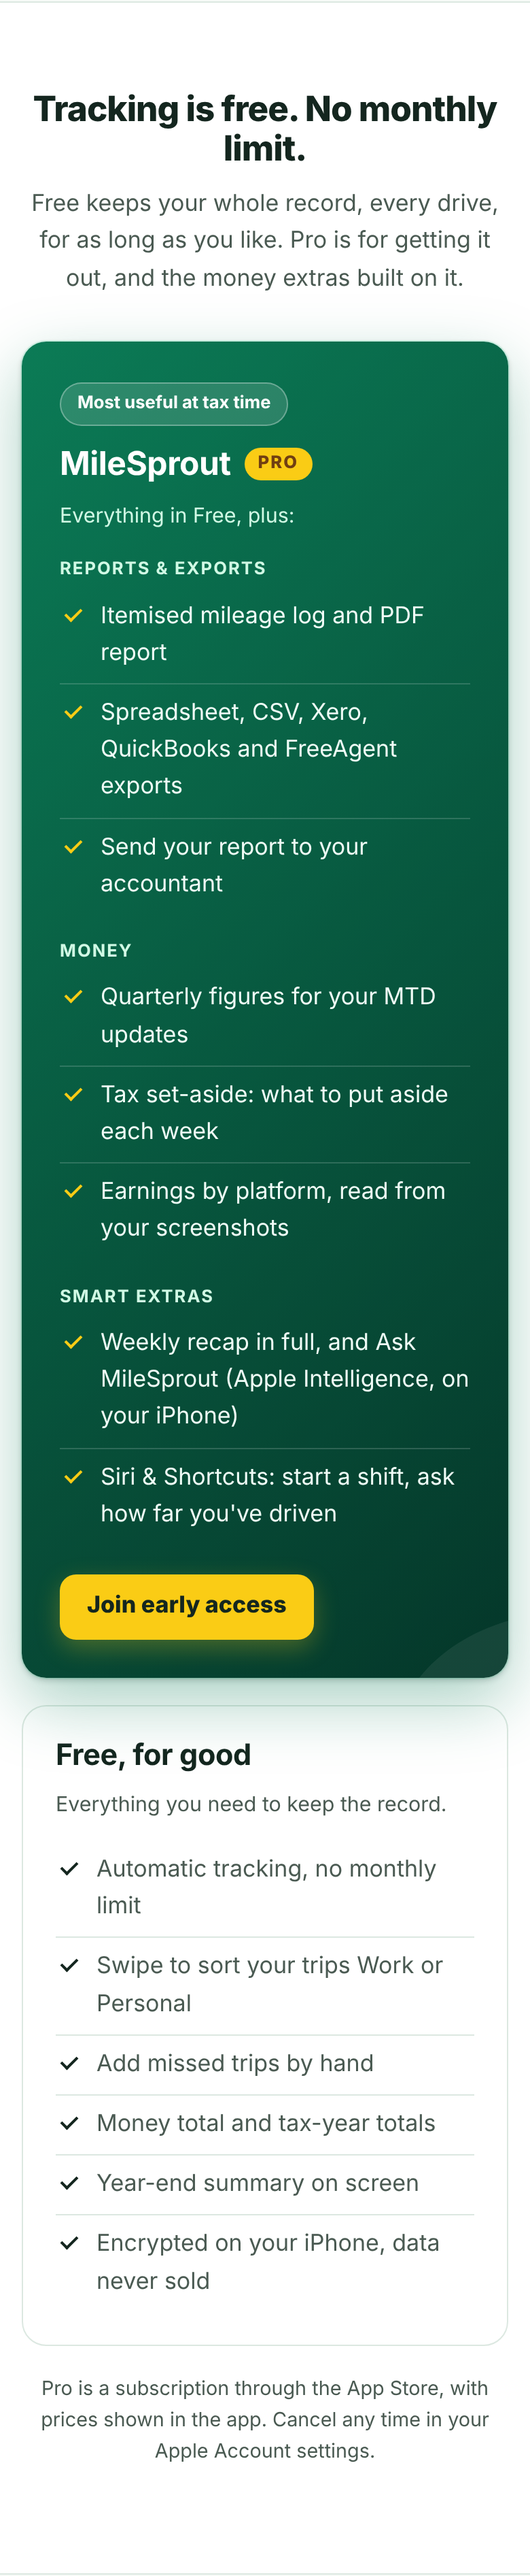
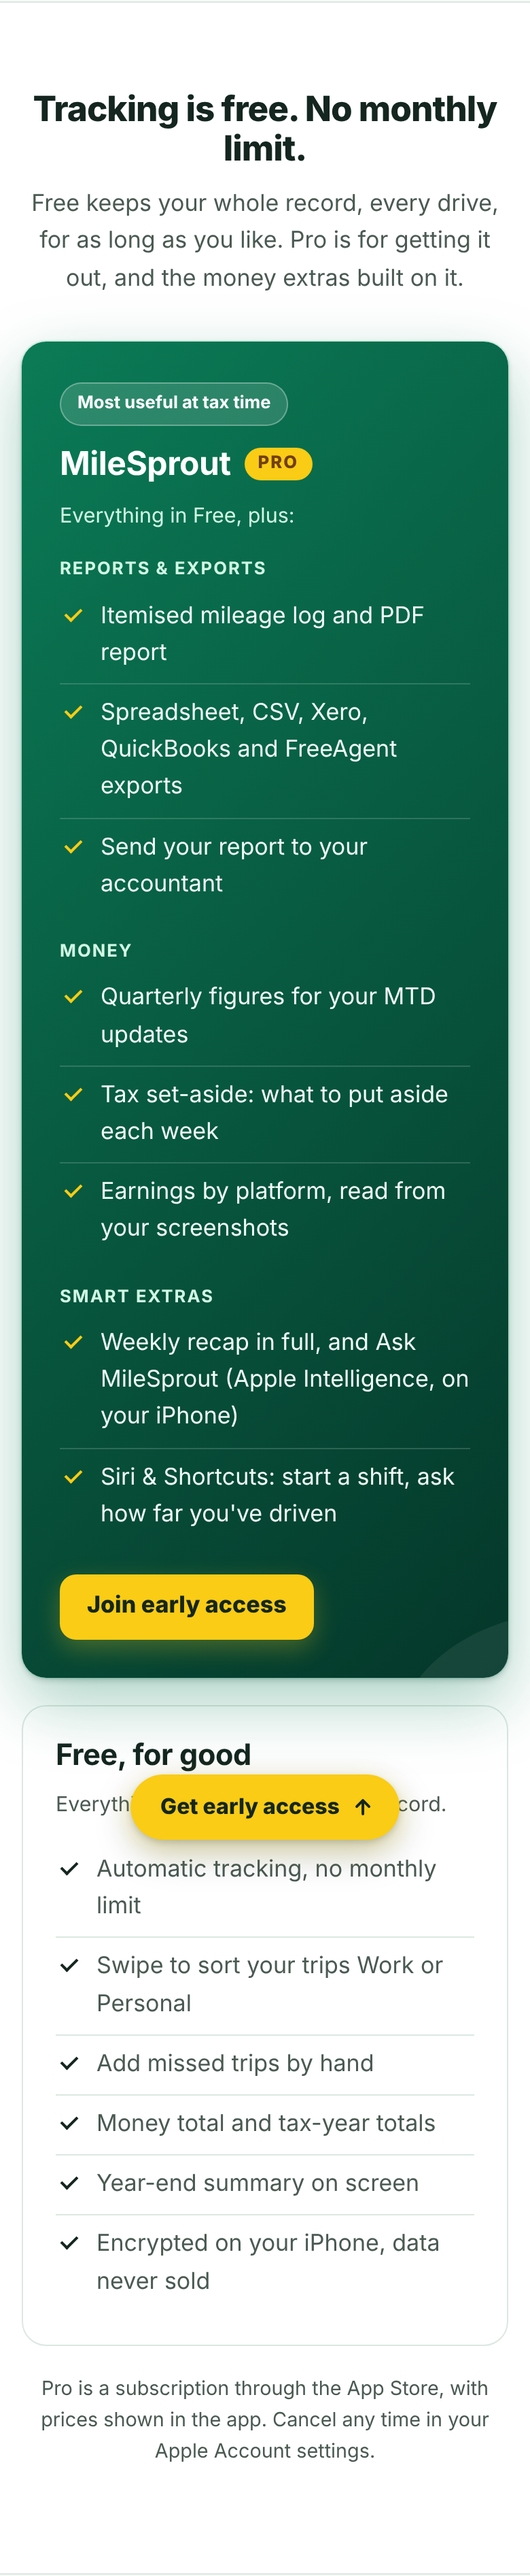
Website: one sign-up form on the home page, plus a floating Get early access pill
The closing section no longer repeats the form: it links up to the hero form and keeps the founding tester link. A gold pill (made by site.js, home page only) appears once the hero form is off screen and hides near the footer; it scrolls to the form and focuses the email box. Hidden state is aria-hidden and inert; no bounce with reduced motion. Asset versions bumped; screenshots in website/docs/float-*.png.

Claude-Session: https://claude.ai/code/session_01HV35bfD7NzTSNvA32BVxeb

Changed region(s): [[0.2154, 0.6857, 0.7692, 0.748]]

diff --git a/website/index.html b/website/index.html
@@ -18,9 +18,9 @@
 <link rel="icon" href="/favicon-32.png" sizes="32x32" type="image/png">
 <link rel="apple-touch-icon" href="/apple-touch-icon.png">
 <link rel="preload" href="/assets/img/screens/home.webp" as="image" type="image/webp">
-<link rel="stylesheet" href="/assets/site.css?v=171bc4d5">
+<link rel="stylesheet" href="/assets/site.css?v=98f1d220">
 <script src="/assets/intro-gate.js?v=4b6a6a89"></script>
-<script src="/assets/site.js?v=b5a106e0" defer></script>
+<script src="/assets/site.js?v=50f97b0a" defer></script>
 <noscript><style>
   /* Without JavaScript: every feature is listed, the deck is a still picture. */
   .feat { opacity: 1 !important; visibility: visible !important; transform: none !important; grid-area: auto !important; }
@@ -408,47 +408,8 @@
   <section class="cta" aria-labelledby="cta-title">
     <div class="wrap">
       <h2 id="cta-title">Be on the road with it from day one</h2>
-      <p>Leave your email and we'll tell you the moment MileSprout is in the App Store. No spam, and we never share it.</p>
-      <form class="waitlist" action="/api/waitlist" method="post" data-waitlist>
-        <input type="hidden" name="source" value="home-bottom">
-        <div class="wl-fields">
-          <label class="wl-label" for="wl-email-b">Your email</label>
-          <div class="wl-row">
-            <input id="wl-email-b" name="email" type="email" required maxlength="254" autocomplete="email" inputmode="email" placeholder="you@example.com" aria-describedby="wl-status-b">
-            <span class="wl-go">
-              <button type="submit">Get early access</button>
-              <span class="sparkles" aria-hidden="true"><i></i><i></i><i></i><i></i></span>
-            </span>
-          </div>
-          <div class="wl-opts">
-            <fieldset class="chips" data-chips>
-              <legend>What do you drive for? <small>(optional)</small></legend>
-              <div class="chip-row">
-                <label class="chip"><input type="radio" name="segment" value="food"><span>Food delivery</span></label>
-                <label class="chip"><input type="radio" name="segment" value="parcels"><span>Parcels</span></label>
-                <label class="chip"><input type="radio" name="segment" value="ridehail"><span>Ride-hail</span></label>
-                <label class="chip"><input type="radio" name="segment" value="care"><span>Care or home visits</span></label>
-                <label class="chip"><input type="radio" name="segment" value="trades"><span>Trades</span></label>
-                <label class="chip"><input type="radio" name="segment" value="other"><span>Other</span></label>
-              </div>
-            </fieldset>
-            <fieldset class="chips" data-chips>
-              <legend>Country <small>(optional)</small></legend>
-              <div class="chip-row">
-                <label class="chip"><input type="radio" name="country" value="UK"><span><svg class="flag" viewBox="0 0 40 28" aria-hidden="true" focusable="false"><rect width="40" height="28" fill="#012169"/><path d="M0 0L40 28M40 0L0 28" stroke="#FFF" stroke-width="5"/><path d="M0 0L40 28M40 0L0 28" stroke="#C8102E" stroke-width="1.8"/><path d="M20 0V28M0 14H40" stroke="#FFF" stroke-width="8"/><path d="M20 0V28M0 14H40" stroke="#C8102E" stroke-width="4.6"/></svg>UK</span></label>
-                <label class="chip"><input type="radio" name="country" value="US"><span><svg class="flag" viewBox="0 0 40 28" aria-hidden="true" focusable="false"><rect width="40" height="28" fill="#FFF"/><path fill="#B22234" d="M0 0.000h40v2.154H0zM0 4.308h40v2.154H0zM0 8.615h40v2.154H0zM0 12.923h40v2.154H0zM0 17.231h40v2.154H0zM0 21.538h40v2.154H0zM0 25.846h40v2.154H0z"/><rect width="17" height="15.077" fill="#3C3B6E"/><g fill="#FFF"><circle cx="1.60" cy="1.60" r=".62"/><circle cx="4.35" cy="1.60" r=".62"/><circle cx="7.10" cy="1.60" r=".62"/><circle cx="9.85" cy="1.60" r=".62"/><circle cx="12.60" cy="1.60" r=".62"/><circle cx="15.35" cy="1.60" r=".62"/><circle cx="2.98" cy="4.35" r=".62"/><circle cx="5.72" cy="4.35" r=".62"/><circle cx="8.47" cy="4.35" r=".62"/><circle cx="11.22" cy="4.35" r=".62"/><circle cx="13.97" cy="4.35" r=".62"/><circle cx="1.60" cy="7.10" r=".62"/><circle cx="4.35" cy="7.10" r=".62"/><circle cx="7.10" cy="7.10" r=".62"/><circle cx="9.85" cy="7.10" r=".62"/><circle cx="12.60" cy="7.10" r=".62"/><circle cx="15.35" cy="7.10" r=".62"/><circle cx="2.98" cy="9.85" r=".62"/><circle cx="5.72" cy="9.85" r=".62"/><circle cx="8.47" cy="9.85" r=".62"/><circle cx="11.22" cy="9.85" r=".62"/><circle cx="13.97" cy="9.85" r=".62"/><circle cx="1.60" cy="12.60" r=".62"/><circle cx="4.35" cy="12.60" r=".62"/><circle cx="7.10" cy="12.60" r=".62"/><circle cx="9.85" cy="12.60" r=".62"/><circle cx="12.60" cy="12.60" r=".62"/><circle cx="15.35" cy="12.60" r=".62"/></g></svg>US</span></label>
-                <label class="chip"><input type="radio" name="country" value="CA"><span><svg class="flag" viewBox="0 0 40 28" aria-hidden="true" focusable="false"><rect width="40" height="28" fill="#FFF"/><path fill="#D52B1E" d="M0 0h10v28H0zM30 0h10v28H30z"/><polygon fill="#D52B1E" points="20,4.2 21.5,7.2 23.2,6.5 22.6,10.4 25.3,8.3 26,9.9 27.6,9.7 26.7,12.7 27.6,13.4 23.9,16.2 24.4,17.6 20.5,17.1 20.6,20.6 19.4,20.6 19.5,17.1 15.6,17.6 16.1,16.2 12.4,13.4 13.3,12.7 12.4,9.7 14,9.9 14.7,8.3 17.4,10.4 16.8,6.5 18.5,7.2"/></svg>Canada</span></label>
-                <label class="chip"><input type="radio" name="country" value="AU"><span><svg class="flag" viewBox="0 0 40 28" aria-hidden="true" focusable="false"><rect width="40" height="28" fill="#012169"/><g transform="scale(.5)"><rect width="40" height="28" fill="#012169"/><path d="M0 0L40 28M40 0L0 28" stroke="#FFF" stroke-width="5"/><path d="M0 0L40 28M40 0L0 28" stroke="#C8102E" stroke-width="1.8"/><path d="M20 0V28M0 14H40" stroke="#FFF" stroke-width="8"/><path d="M20 0V28M0 14H40" stroke="#C8102E" stroke-width="4.6"/></g><g fill="#FFF"><polygon points="10.00,17.90 10.78,19.88 12.81,19.26 11.75,21.10 13.51,22.30 11.41,22.62 11.56,24.74 10.00,23.30 8.44,24.74 8.59,22.62 6.49,22.30 8.25,21.10 7.19,19.26 9.22,19.88"/><polygon points="30.00,4.00 30.43,5.10 31.56,4.75 30.97,5.78 31.95,6.45 30.78,6.62 30.87,7.80 30.00,7.00 29.13,7.80 29.22,6.62 28.05,6.45 29.03,5.78 28.44,4.75 29.57,5.10"/><polygon points="25.00,11.00 25.43,12.10 26.56,11.75 25.97,12.78 26.95,13.45 25.78,13.62 25.87,14.80 25.00,14.00 24.13,14.80 24.22,13.62 23.05,13.45 24.03,12.78 23.44,11.75 24.57,12.10"/><polygon points="34.50,9.00 34.93,10.10 36.06,9.75 35.47,10.78 36.45,11.45 35.28,11.62 35.37,12.80 34.50,12.00 33.63,12.80 33.72,11.62 32.55,11.45 33.53,10.78 32.94,9.75 34.07,10.10"/><polygon points="30.00,20.90 30.46,22.05 31.64,21.69 31.02,22.77 32.05,23.47 30.82,23.65 30.91,24.89 30.00,24.05 29.09,24.89 29.18,23.65 27.95,23.47 28.98,22.77 28.36,21.69 29.54,22.05"/><polygon points="32.60,15.30 32.89,16.00 33.65,16.06 33.07,16.55 33.25,17.29 32.60,16.89 31.95,17.29 32.13,16.55 31.55,16.06 32.31,16.00"/></g></svg>Australia</span></label>
-                <label class="chip"><input type="radio" name="country" value="other"><span>Other</span></label>
-              </div>
-            </fieldset>
-          </div>
-          <label class="wl-consent"><input type="checkbox" name="consent" value="yes" required> <span>Email me when MileSprout launches. Unsubscribe any time. <a href="/privacy#waitlist">How we use your email</a></span></label>
-          <div class="wl-hp" aria-hidden="true"><label>Company <input type="text" name="company" tabindex="-1" autocomplete="off"></label></div>
-        </div>
-        <p class="wl-done" tabindex="-1" hidden><strong>You're on the list.</strong> We'll email you once, when MileSprout is ready.</p>
-        <p class="wl-status" id="wl-status-b" role="status" aria-live="polite"></p>
-      </form>
+      <p>Leave your email at the top of the page and we'll tell you the moment MileSprout is in the App Store. No spam, and we never share it.</p>
+      <p class="cta-actions"><a class="btn-gold" href="#early-access">Get early access</a></p>
       <p class="tester-link"><a href="/testers">Want to test it early? Become a founding tester →</a></p>
     </div>
   </section>

diff --git a/website/assets/site.js b/website/assets/site.js
@@ -124,6 +124,52 @@
     }
   })();
 
+  /* ---------- Home: links to the sign-up (and a floating "Get early access" pill) ----------
+     Every link to #early-access scrolls to the hero form and puts the cursor in the email box.
+     The pill is made here (no JS, no pill) and shows only while the hero form is off screen
+     and the footer isn't in view. */
+  (function joinLinks() {
+    var form = document.querySelector('.hero form[data-waitlist]');
+    var heading = document.getElementById('early-access');
+    if (!form || !heading) return;
+    var email = form.querySelector('input[type="email"]');
+
+    function go(e) {
+      if (e) e.preventDefault();
+      heading.scrollIntoView({ behavior: still() ? 'auto' : 'smooth', block: 'start' });
+      if (email && !form.classList.contains('is-done')) {
+        try { email.focus({ preventScroll: true }); } catch (err) { email.focus(); }
+      }
+    }
+    Array.prototype.forEach.call(document.querySelectorAll('a[href="#early-access"]'), function (a) {
+      a.addEventListener('click', go);
+    });
+
+    if (!('IntersectionObserver' in window)) return;
+    var pill = document.createElement('a');
+    pill.className = 'float-join';
+    pill.href = '#early-access';
+    pill.innerHTML = '<span>Get early access</span><svg viewBox="0 0 20 20" aria-hidden="true" focusable="false"><path d="M10 15.5V5M5 9.5l5-5 5 5" fill="none" stroke="currentColor" stroke-width="2.2" stroke-linecap="round" stroke-linejoin="round"/></svg>';
+    pill.addEventListener('click', go);
+    document.body.appendChild(pill);
+
+    var formSeen = true, footSeen = false, shown = null;
+    function update() {
+      var on = !formSeen && !footSeen;
+      if (on === shown) return;
+      shown = on;
+      pill.classList.toggle('on', on);
+      document.body.classList.toggle('has-float', on);
+      // hidden: out of the tab order and the accessibility tree
+      if (on) { pill.removeAttribute('aria-hidden'); pill.removeAttribute('tabindex'); pill.inert = false; }
+      else { pill.setAttribute('aria-hidden', 'true'); pill.setAttribute('tabindex', '-1'); pill.inert = true; }
+    }
+    new IntersectionObserver(function (es) { formSeen = es[0].isIntersecting; update(); }).observe(form);
+    var foot = document.querySelector('.site-footer');
+    if (foot) new IntersectionObserver(function (es) { footSeen = es[0].isIntersecting; update(); }).observe(foot);
+    update();
+  })();
+
   /* ---------- Hero: the phone turns to face you as you scroll; the sprout drifts ---------- */
   (function hero() {
     var section = document.querySelector('.hero');

diff --git a/website/assets/site.css b/website/assets/site.css
@@ -530,6 +530,34 @@ html.ms-intro::after {
 .hero-sprout { display: block; width: 52px; height: auto; margin: 0 0 14px; filter: drop-shadow(0 4px 10px rgba(3, 28, 20, .35)); }
 @media (min-width: 900px) { .hero-sprout { width: 64px; } }
 
+/* Closing call to action (the form itself is in the hero) */
+.cta-actions { margin: 18px 0 0; }
+
+/* ---------- Floating "Get early access" pill (home page, made by site.js) ---------- */
+.float-join {
+  position: fixed; z-index: 50; right: 24px; bottom: calc(24px + env(safe-area-inset-bottom, 0px));
+  display: inline-flex; align-items: center; gap: 8px; min-height: 48px; padding: 0 18px 0 22px; white-space: nowrap; width: max-content;
+  background: var(--gold); color: #14261F; font-weight: 800; font-size: 1rem; text-decoration: none; border-radius: 999px;
+  box-shadow: 0 2px 4px rgba(20, 38, 31, .14), 0 10px 28px rgba(20, 38, 31, .22), 0 6px 18px rgba(250, 204, 21, .3);
+  opacity: 0; visibility: hidden; transform: translateY(16px);
+  transition: opacity .25s ease, transform .25s ease, visibility 0s linear .25s;
+}
+.float-join.on { opacity: 1; visibility: visible; transform: none; transition: opacity .25s ease, transform .25s ease, visibility 0s; }
+.float-join:hover { background: #FDE047; }
+.float-join:focus-visible { outline: 3px solid #14261F; outline-offset: 3px; box-shadow: 0 0 0 6px var(--gold); }
+.float-join svg { width: 18px; height: 18px; flex: none; animation: nudge-up 4s ease-in-out 1s infinite; }
+@keyframes nudge-up { 0%, 80%, 100% { transform: none; } 86% { transform: translateY(-4px); } 92% { transform: translateY(0); } 96% { transform: translateY(-2px); } }
+@media (max-width: 719px) {
+  .float-join { right: auto; left: 50%; bottom: calc(16px + env(safe-area-inset-bottom, 0px)); transform: translate(-50%, 16px); }
+  .float-join.on { transform: translate(-50%, 0); }
+  body.has-float { padding-bottom: calc(80px + env(safe-area-inset-bottom, 0px)); }
+}
+@media (prefers-reduced-motion: reduce) {
+  .float-join, .float-join.on { transition: opacity .2s ease, visibility 0s linear .2s; }
+  .float-join.on { transition: opacity .2s ease, visibility 0s; }
+  .float-join svg { animation: none; }
+}
+
 /* ---------- Free & Pro: Pro is the star ---------- */
 .plans { align-items: center; }
 .plan-free { box-shadow: none; }

diff --git a/website/testers.html b/website/testers.html
@@ -17,8 +17,8 @@
 <link rel="icon" href="/favicon.svg" type="image/svg+xml">
 <link rel="icon" href="/favicon-32.png" sizes="32x32" type="image/png">
 <link rel="apple-touch-icon" href="/apple-touch-icon.png">
-<link rel="stylesheet" href="/assets/site.css?v=171bc4d5">
-<script src="/assets/site.js?v=b5a106e0" defer></script>
+<link rel="stylesheet" href="/assets/site.css?v=98f1d220">
+<script src="/assets/site.js?v=50f97b0a" defer></script>
 </head>
 <body>
 <a class="skip" href="#main">Skip to content</a>

diff --git a/website/waitlist.html b/website/waitlist.html
@@ -10,8 +10,8 @@
 <link rel="icon" href="/favicon.svg" type="image/svg+xml">
 <link rel="icon" href="/favicon-32.png" sizes="32x32" type="image/png">
 <link rel="apple-touch-icon" href="/apple-touch-icon.png">
-<link rel="stylesheet" href="/assets/site.css?v=171bc4d5">
-<script src="/assets/site.js?v=b5a106e0" defer></script>
+<link rel="stylesheet" href="/assets/site.css?v=98f1d220">
+<script src="/assets/site.js?v=50f97b0a" defer></script>
 </head>
 <body>
 <a class="skip" href="#main">Skip to content</a>

diff --git a/website/partners.html b/website/partners.html
@@ -10,7 +10,7 @@
 <link rel="icon" href="/favicon.svg" type="image/svg+xml">
 <link rel="icon" href="/favicon-32.png" sizes="32x32" type="image/png">
 <link rel="apple-touch-icon" href="/apple-touch-icon.png">
-<link rel="stylesheet" href="/assets/site.css?v=171bc4d5">
+<link rel="stylesheet" href="/assets/site.css?v=98f1d220">
 </head>
 <body>
 <a class="skip" href="#main">Skip to content</a>

diff --git a/website/privacy.html b/website/privacy.html
@@ -10,7 +10,7 @@
 <link rel="icon" href="/favicon.svg" type="image/svg+xml">
 <link rel="icon" href="/favicon-32.png" sizes="32x32" type="image/png">
 <link rel="apple-touch-icon" href="/apple-touch-icon.png">
-<link rel="stylesheet" href="/assets/site.css?v=171bc4d5">
+<link rel="stylesheet" href="/assets/site.css?v=98f1d220">
 </head>
 <body>
 <a class="skip" href="#main">Skip to content</a>

diff --git a/website/r/index.html b/website/r/index.html
@@ -10,7 +10,7 @@
 <link rel="icon" href="/favicon.svg" type="image/svg+xml">
 <link rel="icon" href="/favicon-32.png" sizes="32x32" type="image/png">
 <link rel="apple-touch-icon" href="/apple-touch-icon.png">
-<link rel="stylesheet" href="/assets/site.css?v=171bc4d5">
+<link rel="stylesheet" href="/assets/site.css?v=98f1d220">
 </head>
 <body>
 <a class="skip" href="#main">Skip to content</a>

diff --git a/website/support.html b/website/support.html
@@ -10,7 +10,7 @@
 <link rel="icon" href="/favicon.svg" type="image/svg+xml">
 <link rel="icon" href="/favicon-32.png" sizes="32x32" type="image/png">
 <link rel="apple-touch-icon" href="/apple-touch-icon.png">
-<link rel="stylesheet" href="/assets/site.css?v=171bc4d5">
+<link rel="stylesheet" href="/assets/site.css?v=98f1d220">
 </head>
 <body>
 <a class="skip" href="#main">Skip to content</a>

diff --git a/website/404.html b/website/404.html
@@ -9,7 +9,7 @@
 <link rel="icon" href="/favicon.svg" type="image/svg+xml">
 <link rel="icon" href="/favicon-32.png" sizes="32x32" type="image/png">
 <link rel="apple-touch-icon" href="/apple-touch-icon.png">
-<link rel="stylesheet" href="/assets/site.css?v=171bc4d5">
+<link rel="stylesheet" href="/assets/site.css?v=98f1d220">
 </head>
 <body>
 <a class="skip" href="#main">Skip to content</a>

diff --git a/website/README.md b/website/README.md
@@ -21,7 +21,7 @@ The public website for MileSprout: plain static HTML, one CSS file and one small
 | `assets/intro-gate.js` | Home page only, loaded before paint (not deferred): decides whether the intro plays and puts up a green cover so the hero doesn't flash first |
 | `assets/img/screens/` | Raw app captures (`milemint/assets/store/raw/`, `milemint/docs/screenshots/perks/`) as 640 px WebP, with the top and bottom rows extended to leave room for the CSS status bar and home indicator. `trip.webp` has an invented street map drawn under the route (the capture's map panel was blank); `perks.webp` has the Expo dev button painted out of the tab bar |
 | `assets/img/og.jpg` | Link preview image |
-| `docs/` | Preview screenshots of the home page (not linked from the site): `scroll-*.png` for the hero and deck at desktop and mobile sizes, `waitlist-*.png` for the form states, `testers-*.png` for `/testers?g=fb-test` (page, filled form, success) at 1440 and 390 px, `intro-*.png` for the sprout intro (frames at 0.0–3.2 s and the final hero), `chips-*.png` for the choice chips (green hero and light), and `pro-*`, `countries-*`, `languages-*`, `compare-*.png` for those home sections |
+| `docs/` | Preview screenshots of the home page (not linked from the site): `scroll-*.png` for the hero and deck at desktop and mobile sizes, `waitlist-*.png` for the form states, `testers-*.png` for `/testers?g=fb-test` (page, filled form, success) at 1440 and 390 px, `intro-*.png` for the sprout intro (frames at 0.0–3.2 s and the final hero), `chips-*-hero.png` for the choice chips, `float-*.png` for the floating "Get early access" pill, and `pro-*`, `countries-*`, `languages-*`, `compare-*.png` for those home sections |
 
 Links between pages are extensionless (`/privacy`), which is how Cloudflare Pages serves `privacy.html`. To preview locally with working links, use `npx wrangler pages dev website`. A quick look also works with `python3 -m http.server 8080 -d website` and opening `/index.html`, `/privacy.html` and so on.
 
@@ -37,7 +37,7 @@ Links between pages are extensionless (`/privacy`), which is how Cloudflare Page
 
 ## Waitlist
 
-The hero, the closing section and `/waitlist` have the same form: email, optional "What do you drive for?" and country (choice chips: radio buttons styled as pills, tap a chosen one again to clear it), a consent box, and a hidden honeypot field. With JavaScript it posts JSON to `/api/waitlist` and shows "You're on the list" in place; without it, it's a normal form post and the function redirects back to `/waitlist`.
+The home hero and `/waitlist` have the same form: email, optional "What do you drive for?" and country (choice chips: radio buttons styled as pills, tap a chosen one again to clear it), a consent box, and a hidden honeypot field. With JavaScript it posts JSON to `/api/waitlist` and shows "You're on the list" in place; without it, it's a normal form post and the function redirects back to `/waitlist`.
 
 The function needs a D1 database bound as `DB`. Set-up, in short (details in [`functions/README.md`](../functions/README.md)):
 
